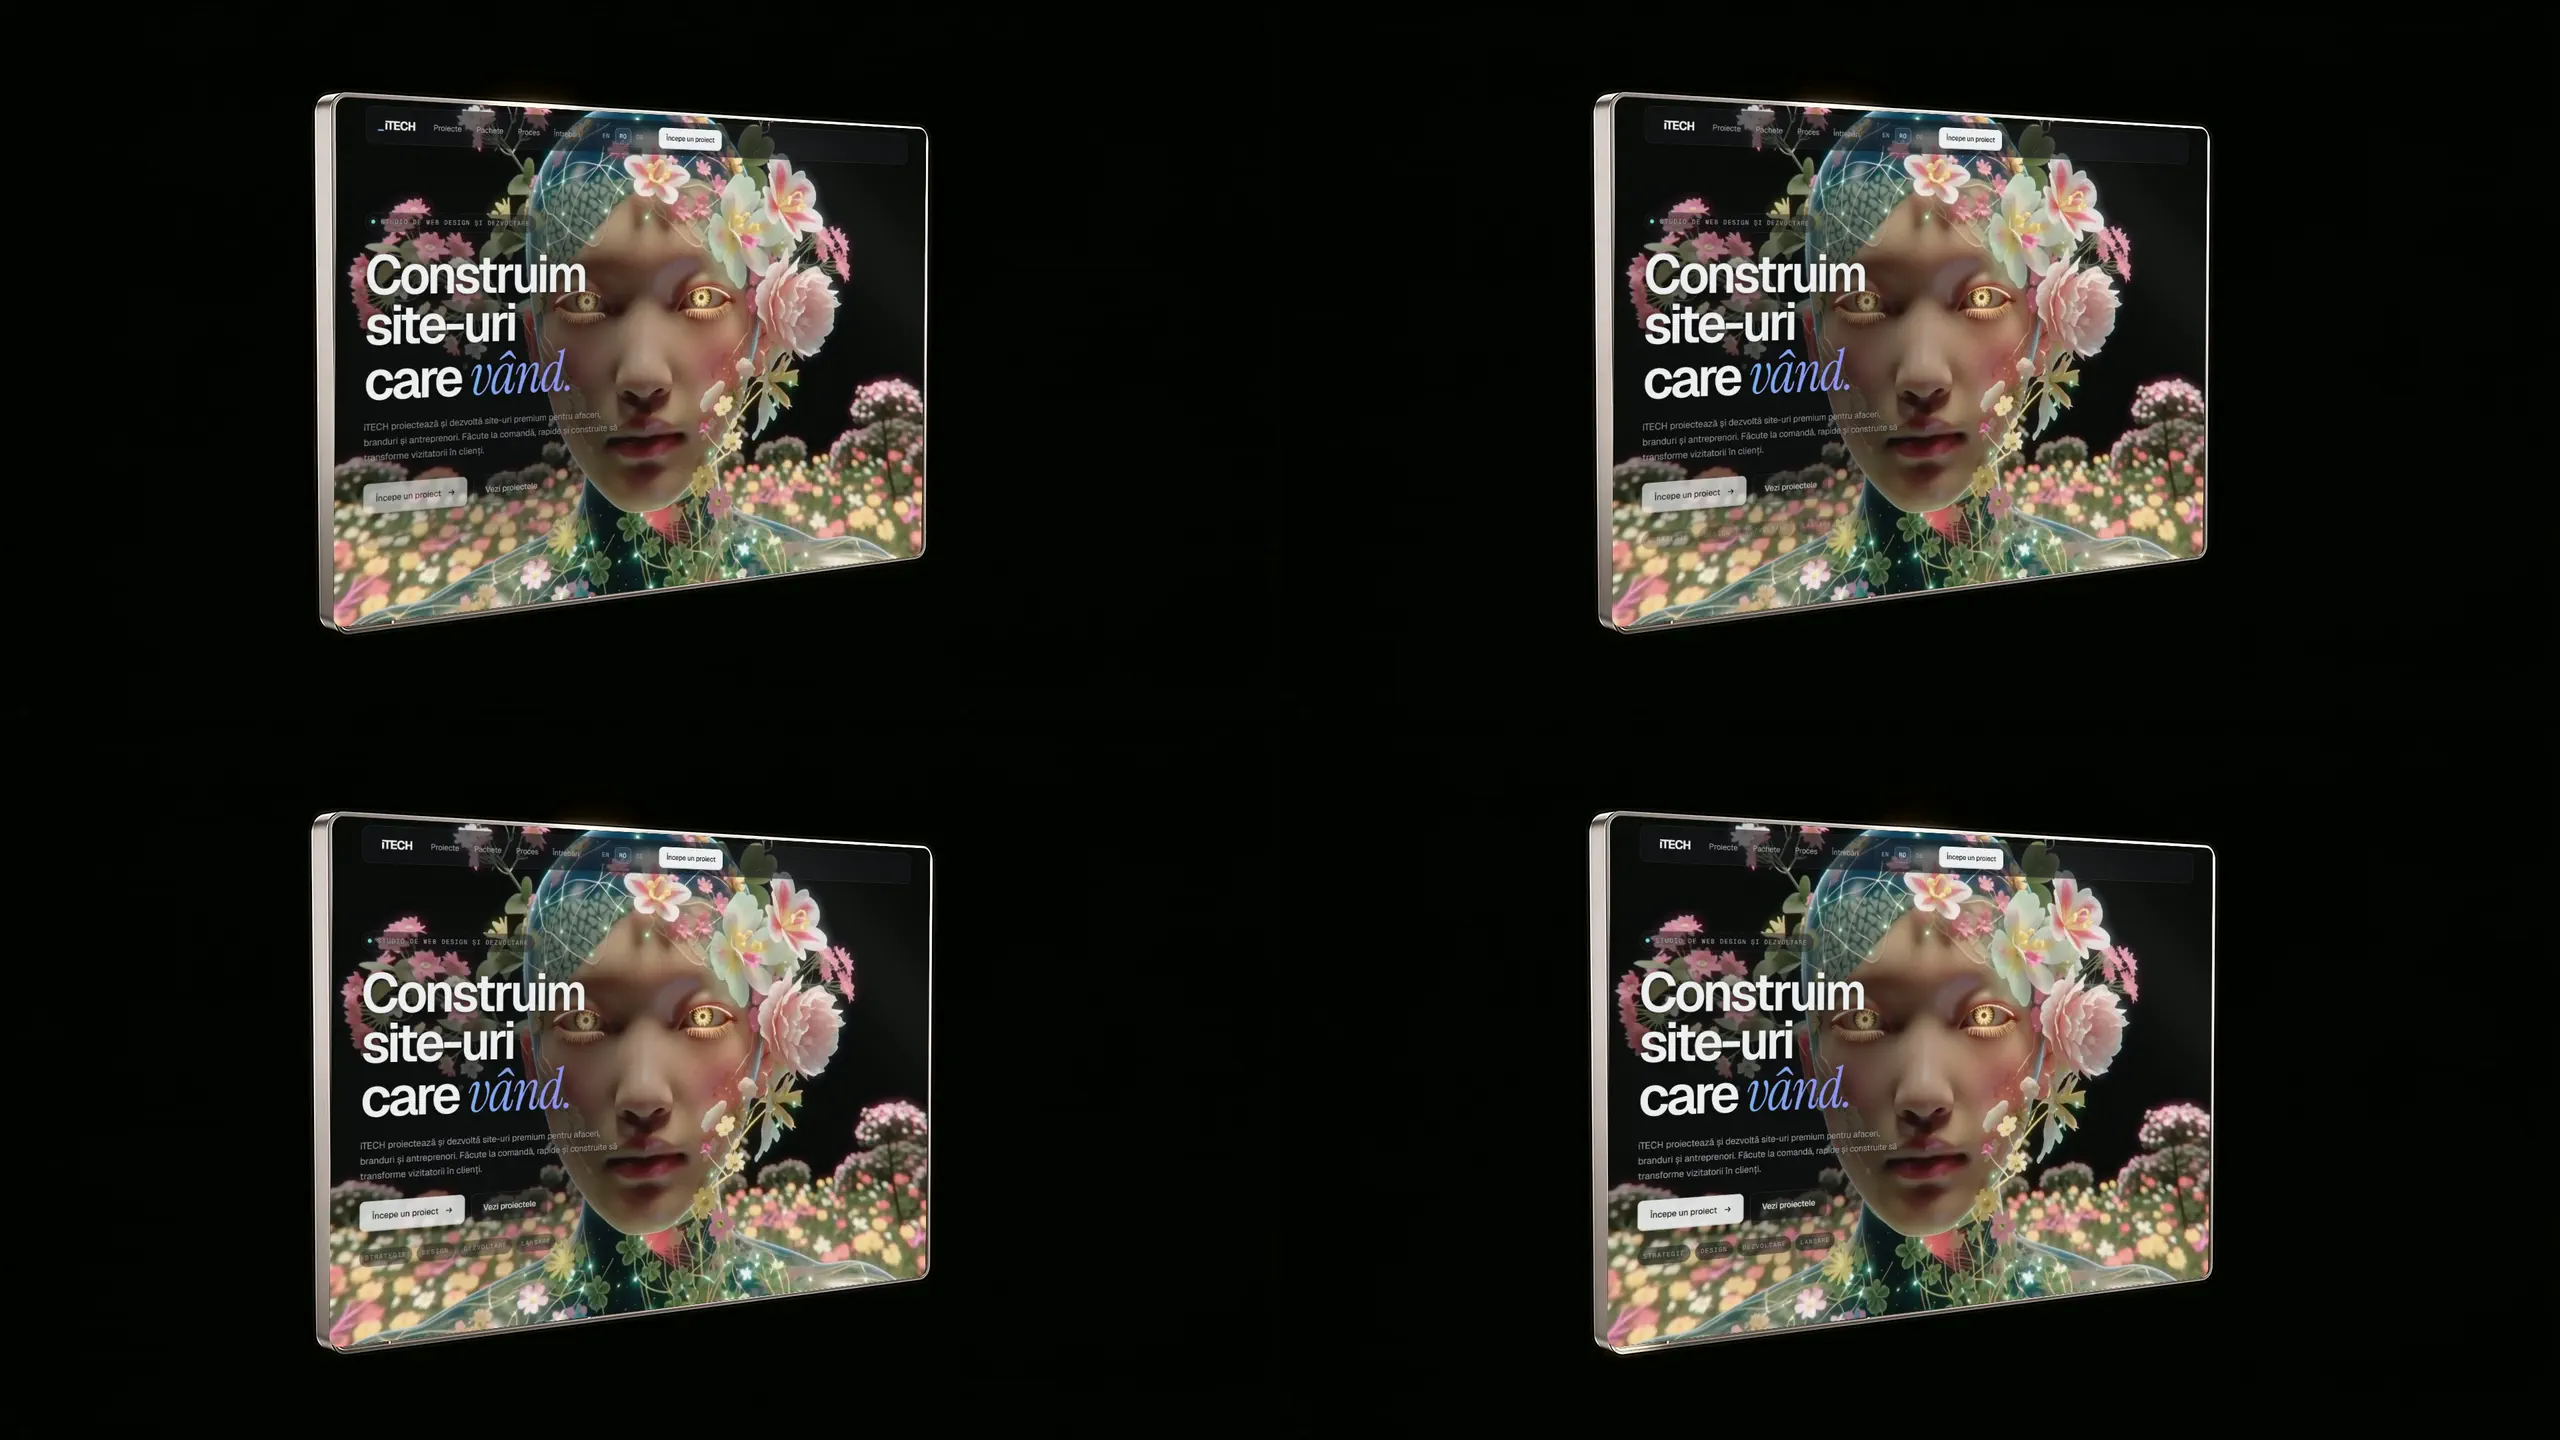
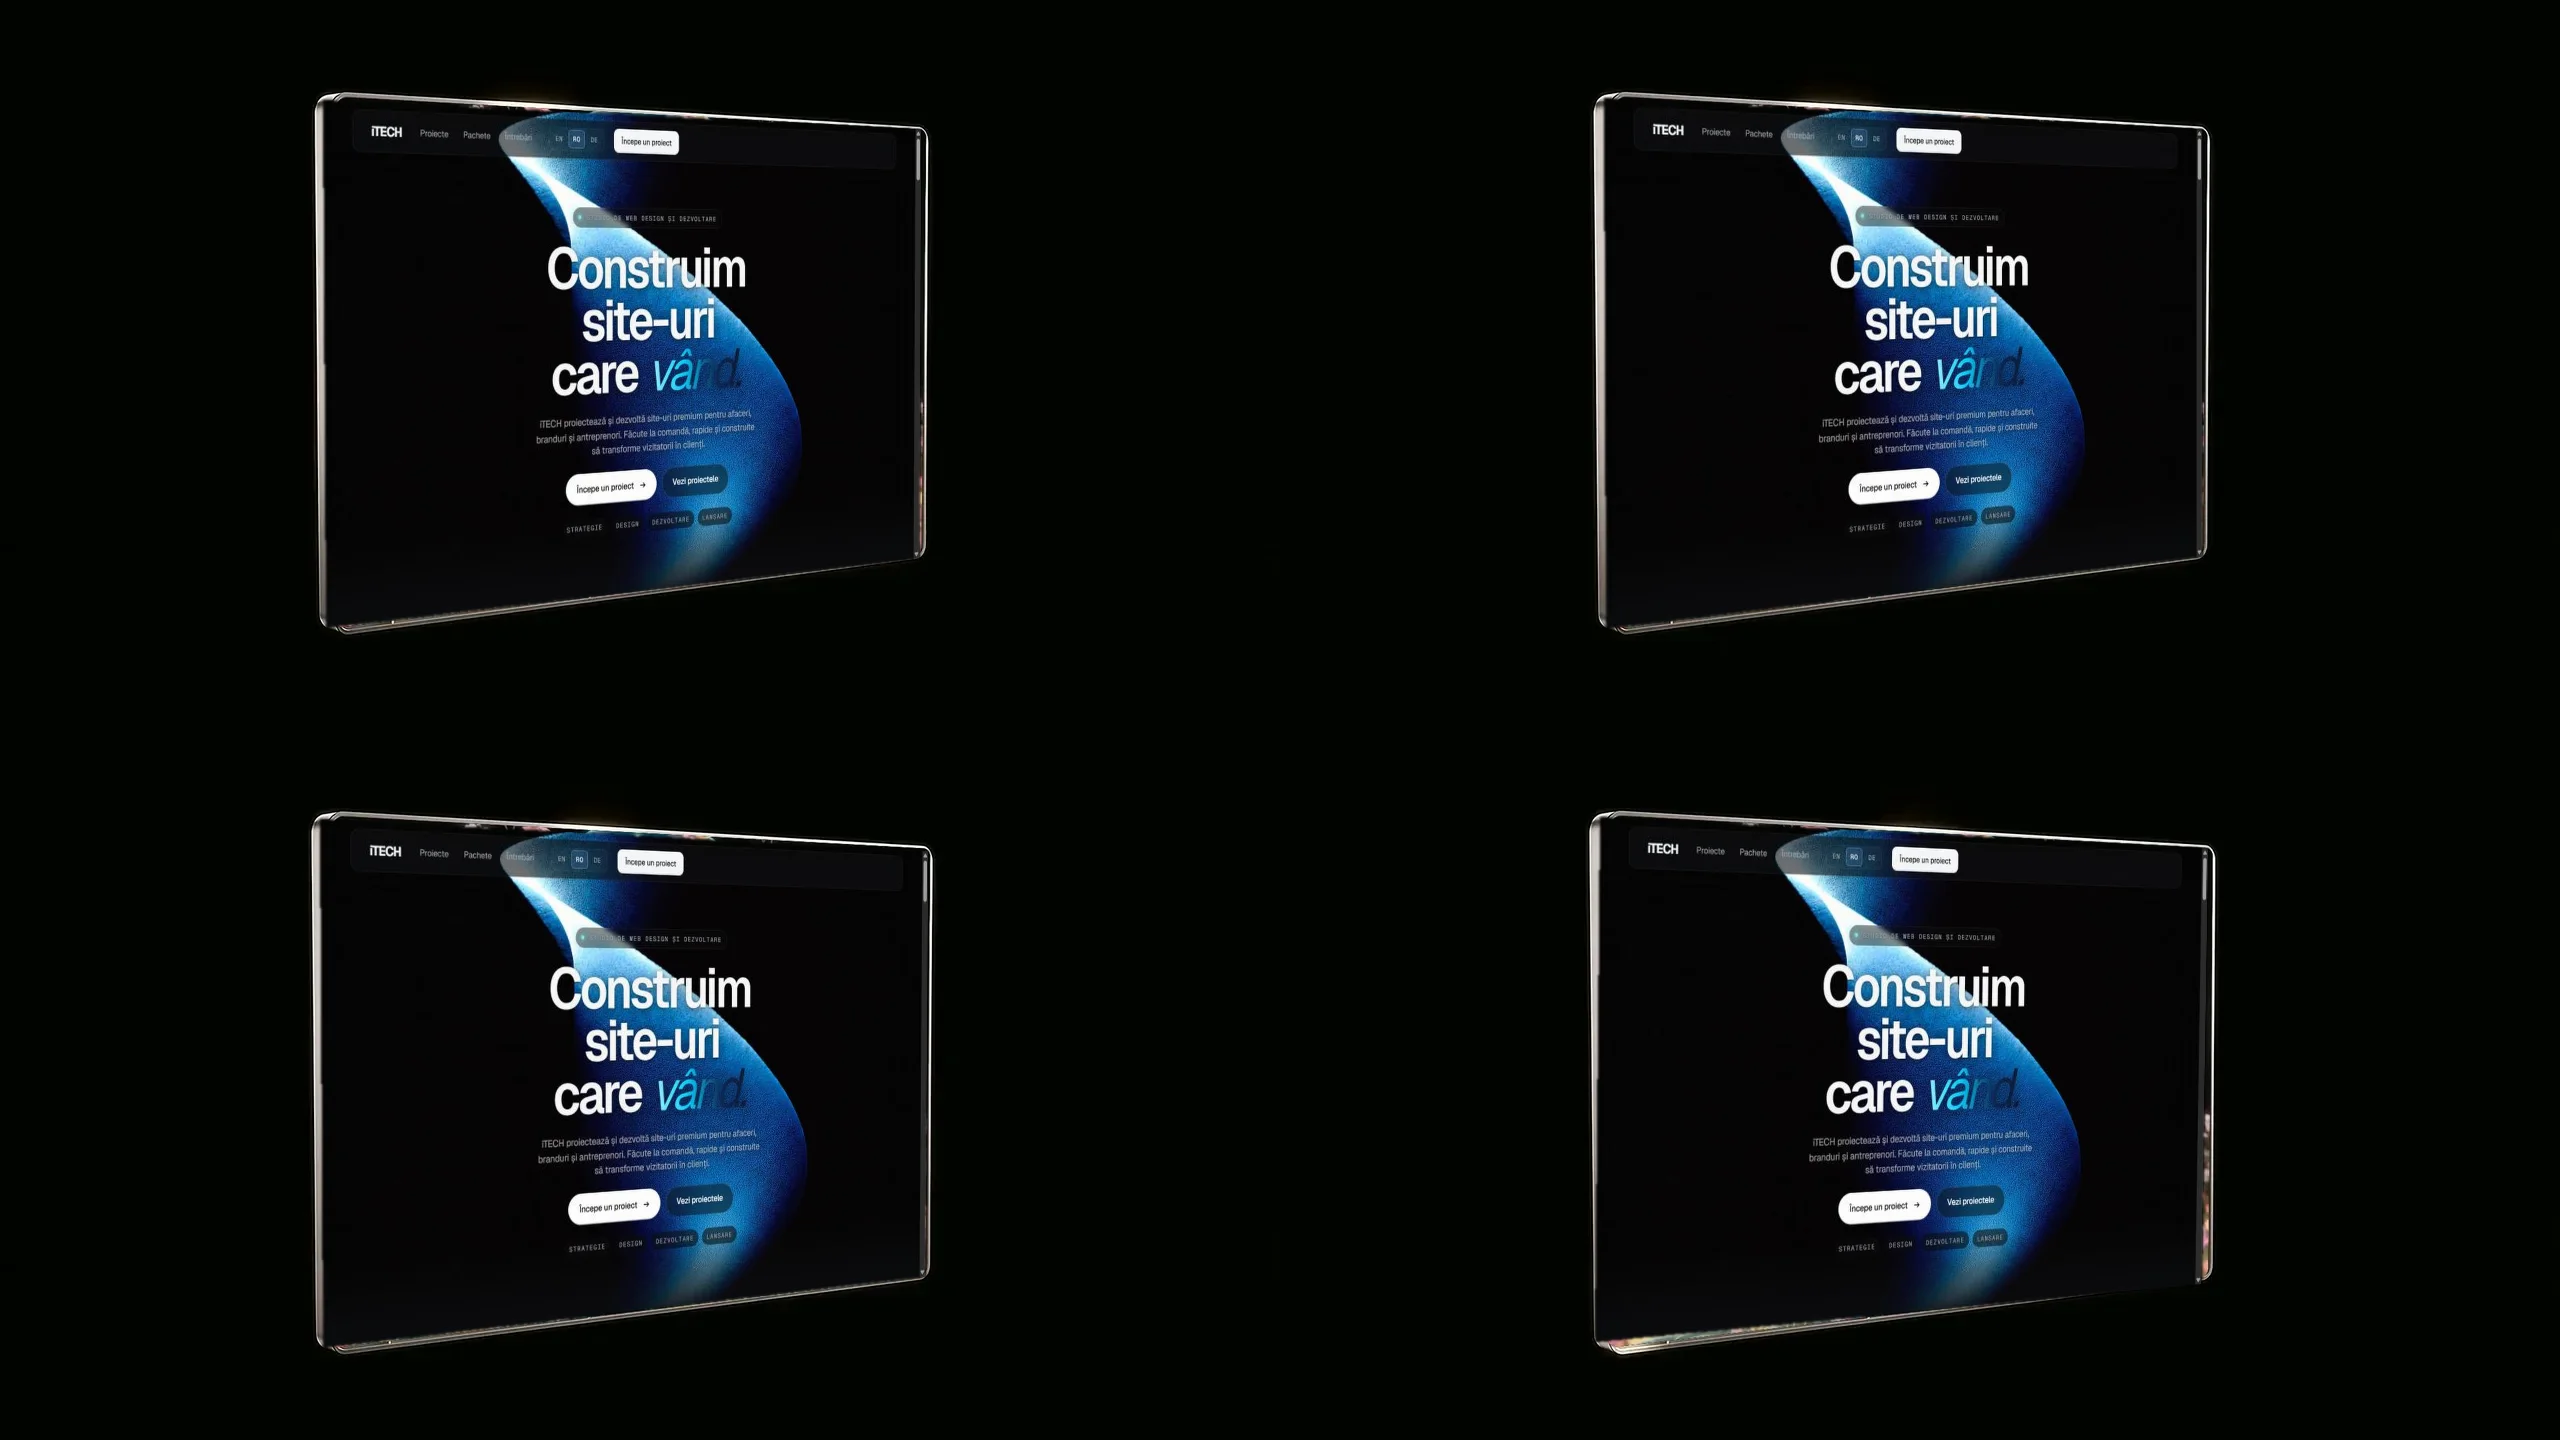
update

diff --git a/process.css b/process.css
@@ -1,6 +1,6 @@
 /* iTECH — Process: "The anatomy of digital" — scroll-controlled film on a pinned canvas.
    Palette: deep charcoal, platinum, soft rose-gold, champagne. Uses the site's theme variables. */
-.ana{--ana-rose:#E0988F;--ana-champ:#F4B8B2;--ana-plat:#F8F5F2;--ana-char:#1A1A1A;position:relative;padding-bottom:clamp(24px,4vw,56px)}
+.ana{--ana-rose:#76B6FF;--ana-champ:#A9CDFF;--ana-plat:#F4F6FA;--ana-char:#1A1A1A;position:relative;padding-bottom:clamp(24px,4vw,56px)}
 .ana .sec-head{margin-bottom:clamp(20px,3vw,40px)}
 
 /* the scroll track: its height is the scroll distance of the film; the stage stays pinned inside it */
@@ -49,7 +49,7 @@
 
 /* the process steps (existing content), after the film */
 .ana-steps{list-style:none;margin:clamp(40px,6vw,88px) 0 0;padding:0;display:grid;grid-template-columns:repeat(2,minmax(0,1fr));gap:1px;border-radius:18px;overflow:hidden;
-  background:linear-gradient(135deg,rgba(244,184,178,.16),rgba(248,245,242,.06) 40%,rgba(244,184,178,.1));border:1px solid rgba(248,245,242,.06)}
+  background:linear-gradient(135deg,rgba(118,182,255,.16),rgba(244,246,250,.06) 40%,rgba(118,182,255,.1));border:1px solid rgba(248,245,242,.06)}
 .ana-step{position:relative;display:grid;align-content:start;gap:8px;padding:clamp(20px,2.2vw,30px);background:linear-gradient(180deg,#121214,#0D0D0F);transition:background .4s var(--ease)}
 .ana-step::before{content:"";position:absolute;left:0;top:0;height:1px;width:0;background:linear-gradient(90deg,var(--ana-rose),transparent);transition:width .6s var(--ease)}
 .ana-step:hover{background:linear-gradient(180deg,#17161A,#0F0F11)}
@@ -66,6 +66,7 @@
 .ana-still{display:none}
 
 @media (max-width:760px){
+  .ana-steps{display:none}   /* the 7-step list is removed on phones: it made the scroll too long */
   .ana-track{height:calc(var(--ana-len-m,300) * 1vh)}
   .ana-copy{left:20px;right:20px;width:auto;bottom:118px}   /* clears the fixed mobile CTA bar */
   .ana-h{font-size:clamp(32px,9.4vw,46px)}

diff --git a/config.js b/config.js
@@ -848,7 +848,7 @@ window.ITECH_CONFIG = {
       title: "The anatomy\nof digital.",
       subtitle: "Every detail. Engineered to perfection.",
       hint: "Scroll",
-      frames: { count: 346, width: 1920, height: 1080, desktop: "img/process-seq/d/f{i}.webp", mobile: "img/process-seq/m/a{i}.webp", mobileGrid: [2, 2], mobileBreakpoint: 760 },
+      frames: { count: 346, width: 1920, height: 1080, desktop: "img/process-seq/d/f{i}.webp", mobile: "img/process-seq/m/a{i}.webp?v=2", mobileGrid: [2, 2], mobileBreakpoint: 760 },
       stillFrames: [110, 215, 345],   // reduced motion: the three still pictures
       stages: [
         { label: "The machine", title: "Engineered\nto perfection.", from: 0, to: .34 },
